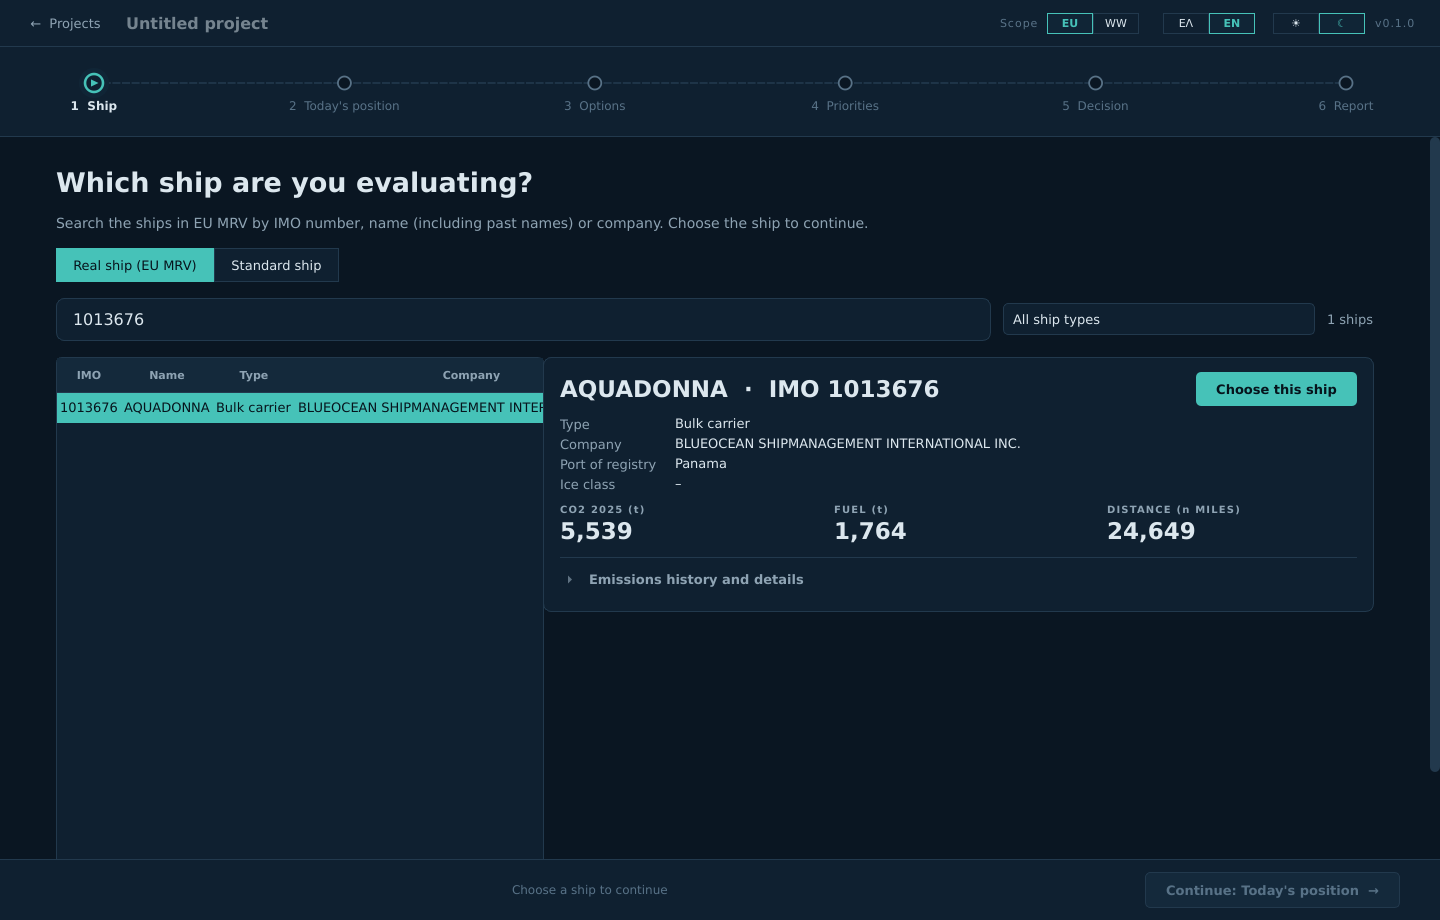
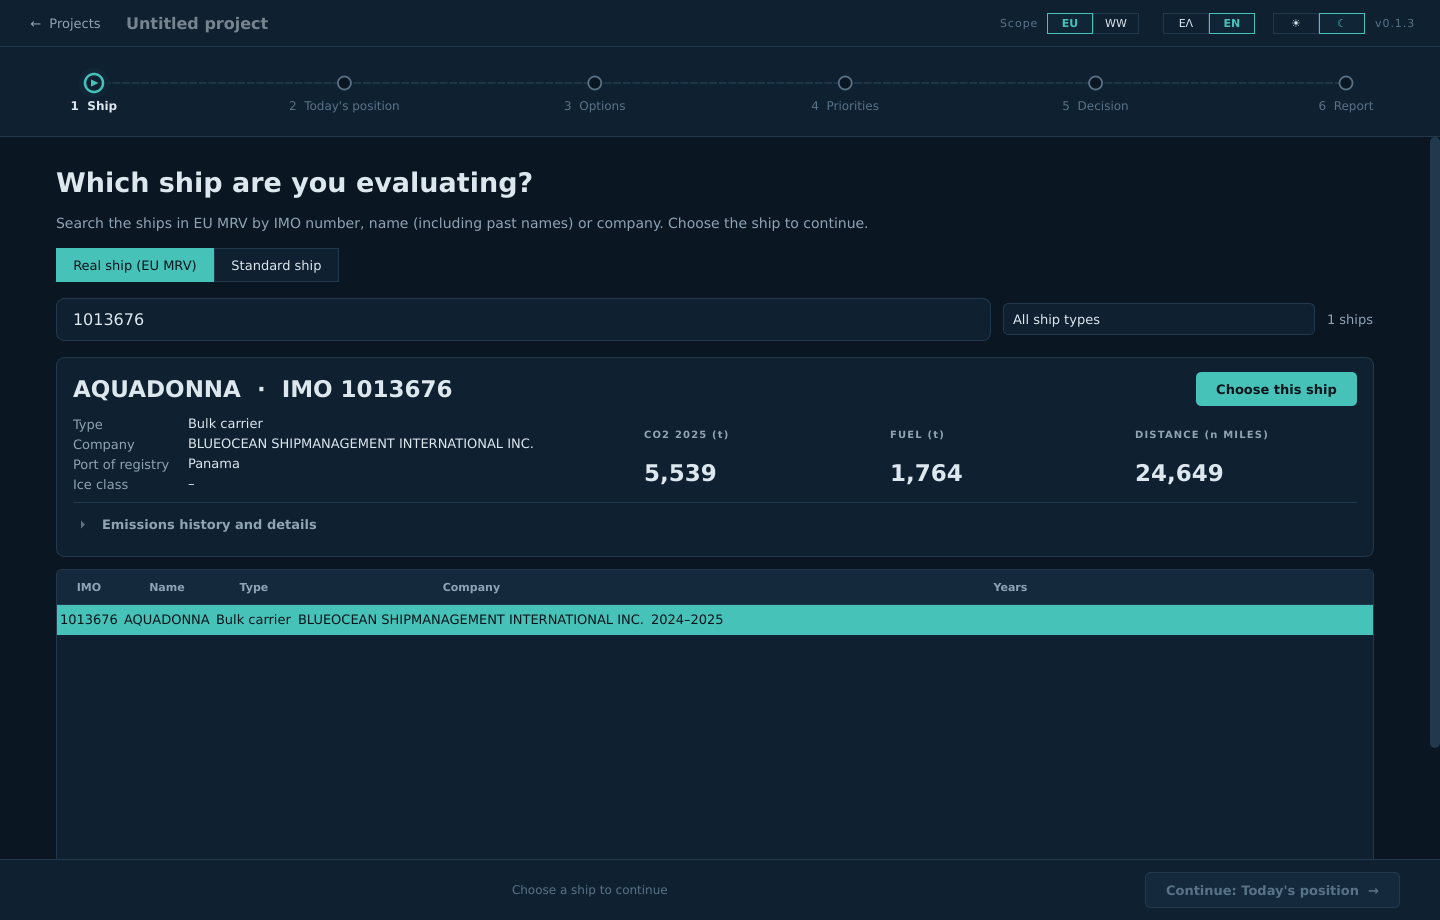
Step 1: ship details across the full width above the results table; step 4: reset buttons
- Step 1: identity and key figures side by side in one panel, history unfolds under it, the results
  table at full width below (no side-by-side splitter)
- Step 4: a circular-arrow reset in every weighting section (BWM: back to the starting answers;
  AHP: every pair equal), with tooltip in both languages; test added

Claude-Session: https://claude.ai/code/session_01GpgHe8uryxugAbk4MzQHde

diff --git a/navigator/ui/pages/ship.py b/navigator/ui/pages/ship.py
@@ -16,7 +16,6 @@ from PySide6.QtWidgets import (
     QMessageBox,
     QProgressDialog,
     QPushButton,
-    QSplitter,
     QTableView,
     QTableWidget,
     QTableWidgetItem,
@@ -155,9 +154,9 @@ class ShipDetail(QWidget):
         top.addWidget(self.use_btn, 0, Qt.AlignmentFlag.AlignTop)
         head.body.addLayout(top)
         self.info = QWidget()
-        info = QVBoxLayout(self.info)
+        info = QHBoxLayout(self.info)                # identity on the left, key figures on the right
         info.setContentsMargins(0, 0, 0, 0)
-        info.setSpacing(12)
+        info.setSpacing(36)
         head.body.addWidget(self.info)
         self.form = QFormLayout()
         self.form.setHorizontalSpacing(18)
@@ -169,7 +168,7 @@ class ShipDetail(QWidget):
             val.setTextInteractionFlags(Qt.TextInteractionFlag.TextSelectableByMouse)
             self.form.addRow(lab, val)
             self.fields[key] = (lab, val)
-        info.addLayout(self.form)
+        info.addLayout(self.form, 3)
         kg = QGridLayout()
         kg.setHorizontalSpacing(24)
         self.k_co2 = Kpi("ship.kpi.co2", year="")
@@ -178,7 +177,7 @@ class ShipDetail(QWidget):
         for i, k in enumerate((self.k_co2, self.k_fuel, self.k_dist)):
             kg.addWidget(k, 0, i)
             kg.setColumnStretch(i, 1)
-        info.addLayout(kg)
+        info.addLayout(kg, 4)
 
         self.details = Fold("ship.details")
         more = QFormLayout()
@@ -211,7 +210,7 @@ class ShipDetail(QWidget):
         hh.setStretchLastSection(True)
         self.table.setMinimumHeight(250)
         self.details.body_layout.addWidget(self.table)
-        info.addWidget(self.details)
+        head.body.addWidget(self.details)          # history unfolds under the whole panel
         v.addWidget(head)
         v.addStretch(1)
         self.state.ship_changed.connect(lambda _: self._update_button())
@@ -489,7 +488,18 @@ class StepShip(Page):
         self.empty.body.addWidget(TrLabel("ship.no_data.body", "Muted", wrap=True))
         mv.addWidget(self.empty)
 
-        self.split = QSplitter(Qt.Orientation.Horizontal)
+        # selected ship across the full width on top, the results table at full width below
+        self.split = QWidget()
+        sl = QVBoxLayout(self.split)
+        sl.setContentsMargins(0, 0, 0, 0)
+        sl.setSpacing(12)
+        right = QWidget()
+        rl = QVBoxLayout(right)
+        rl.setContentsMargins(0, 0, 0, 0)
+        rl.setSpacing(12)
+        self.detail = ShipDetail(state)
+        rl.addWidget(self.detail)
+        sl.addWidget(right)
         self.model = ResultsModel()
         self.view = QTableView()
         self.view.setModel(self.model)
@@ -500,19 +510,9 @@ class StepShip(Page):
         self.view.setShowGrid(False)
         self.view.horizontalHeader().setSectionResizeMode(QHeaderView.ResizeMode.ResizeToContents)
         self.view.horizontalHeader().setStretchLastSection(True)
-        self.view.setMinimumWidth(420)
+        self.view.setMinimumHeight(380)
         self.view.selectionModel().currentRowChanged.connect(self._row_changed)
-        self.split.addWidget(self.view)
-        right = QWidget()
-        rl = QVBoxLayout(right)
-        rl.setContentsMargins(0, 0, 0, 0)
-        rl.setSpacing(12)
-        self.detail = ShipDetail(state)
-        rl.addWidget(self.detail)
-        self.split.addWidget(right)
-        self.split.setStretchFactor(0, 2)
-        self.split.setStretchFactor(1, 3)
-        self.split.setMinimumHeight(560)
+        sl.addWidget(self.view, 1)
         mv.addWidget(self.split, 1)
         self.lay.addWidget(self.mrv_pane, 1)
         self.std_pane = StandardPane(state)

diff --git a/navigator/ui/pages/priorities.py b/navigator/ui/pages/priorities.py
@@ -17,6 +17,7 @@ from PySide6.QtWidgets import (
     QSlider,
     QTableWidget,
     QTableWidgetItem,
+    QToolButton,
     QVBoxLayout,
     QWidget,
 )
@@ -152,6 +153,14 @@ class BwmBlock(QWidget):
             self.q_bo[k].setText(tr("pri.q.bo", best=item_name(b), other=item_name(k)))
             self.q_ow[k].setText(tr("pri.q.ow", worst=item_name(w), other=item_name(k)))
 
+    def reset(self) -> None:
+        """Back to the starting point: first item most, last least important, every comparison at 2."""
+        self._fill_boxes(self.items[0], self.items[-1])
+        for sc in (*self.bo.values(), *self.ow.values()):
+            sc.set_value(2)
+        self._layout()
+        self.changed.emit()
+
     def result(self) -> W.WeightResult:
         b, w = self.best.currentData(), self.worst.currentData()
         bi, wi = self.items.index(b), self.items.index(w)
@@ -209,6 +218,12 @@ class AhpBlock(QWidget):
         g.setColumnStretch(1, 1)
         self.retranslate()
 
+    def reset(self) -> None:
+        """Every pair back to equal importance."""
+        for sc in self.pairs.values():
+            sc.set_value(0)
+        self.changed.emit()
+
     def result(self) -> W.WeightResult:
         j = {}
         for (i, k), s in self.pairs.items():
@@ -238,8 +253,16 @@ class Level(Panel):
     def __init__(self, key: str, items: list[str]):
         super().__init__(f"pri.level.{key}")
         self.key, self.items = key, items
+        top = QHBoxLayout()
         self.hint = label("", "Faint", wrap=True)
-        self.body.addWidget(self.hint)
+        top.addWidget(self.hint, 1)
+        self.reset_btn = QToolButton()
+        self.reset_btn.setObjectName("Reset")
+        self.reset_btn.setText("\u21BA")
+        self.reset_btn.setCursor(Qt.CursorShape.PointingHandCursor)
+        self.reset_btn.clicked.connect(self.reset)
+        top.addWidget(self.reset_btn, 0, Qt.AlignmentFlag.AlignTop)
+        self.body.addLayout(top)
         self.bwm, self.ahp = BwmBlock(items), AhpBlock(items)
         self.body.addWidget(self.bwm)
         self.body.addWidget(self.ahp)
@@ -249,6 +272,14 @@ class Level(Panel):
         self.ahp.changed.connect(self.changed)
         self.method = "bwm"
         self.set_method("bwm")
+        self.retranslate_reset()
+
+    def reset(self) -> None:
+        """Reset this section's answers (only the method shown)."""
+        (self.bwm if self.method == "bwm" else self.ahp).reset()
+
+    def retranslate_reset(self) -> None:
+        self.reset_btn.setToolTip(tr("pri.reset"))
 
     def set_method(self, method: str) -> None:
         self.method = method
@@ -403,6 +434,7 @@ class StepPriorities(Page):
         for lv in self.levels.values():
             lv.bwm.retranslate()
             lv.ahp.retranslate()
+            lv.retranslate_reset()
         self.update_hints()
         self.update_weights()
 

diff --git a/tests/test_ui_smoke.py b/tests/test_ui_smoke.py
@@ -1,4 +1,5 @@
 """Lobby → new project → choose ship → today's position → save → reopen."""
+import numpy as np
 import pytest
 
 pytest.importorskip("pytestqt")
@@ -228,3 +229,22 @@ def test_priorities_and_decision_with_smaa(win, qtbot):
     win.open_project(pid)
     pri = win.project_view.priorities_step
     assert pri.levels["families"].bwm.best.currentData() == "money"
+
+
+def test_priorities_reset_buttons(win):
+    win.new_project()
+    pv = win.project_view
+    pri = pv.priorities_step
+    fam = pri.levels["families"]
+    start = pri.global_weights().copy()
+    fam.bwm.best.setCurrentIndex(3)
+    fam.bwm.bo["money"].slider.setValue(8)
+    assert not np.allclose(pri.global_weights(), start)
+    fam.reset_btn.click()
+    assert fam.bwm.best.currentData() == "money" and fam.bwm.bo["climate"].value() == 2
+    assert pri.global_weights() == pytest.approx(start)
+    pri._method("ahp")
+    money = pri.levels["money"]
+    next(iter(money.ahp.pairs.values())).slider.setValue(-6)
+    money.reset_btn.click()
+    assert all(s.value() == 0 for s in money.ahp.pairs.values())

diff --git a/navigator/ui/theme.py b/navigator/ui/theme.py
@@ -160,6 +160,9 @@ QToolButton#Fold {{ border: none; border-top: 1px solid {p.border}; background: 
 QToolButton#Fold:hover, QToolButton#Fold:checked {{ color: {p.accent}; }}
 #Estimate {{ color: {p.warn}; font-size: 8.5pt; }}
 #Warn {{ color: {p.bad}; font-size: 9.5pt; }}
+QToolButton#Reset {{ font-size: 15pt; color: {p.muted}; background: transparent; border: 1px solid {p.border};
+    border-radius: 14px; min-width: 26px; min-height: 26px; padding: 0 0 2px 0; }}
+QToolButton#Reset:hover {{ color: {p.accent}; border-color: {p.accent}; }}
 #DetailTitle {{ font-size: 14pt; font-weight: 700; color: {p.text}; }}
 #FactValue {{ color: {p.text}; font-size: 9.5pt; }}
 #Warning {{ background: {p.panel_alt}; border-left: 3px solid {p.warn}; border-radius: 3px; padding: 8px 12px; }}

diff --git a/docs/FOLLOW-UPS.md b/docs/FOLLOW-UPS.md
@@ -17,10 +17,10 @@ reminds the author when an item becomes due. Tick items off with the commit that
 - [ ] Replace the equal NZF odds in SMAA (`markets.json` nzf_probability) with the vote's actual outcome (0010).
 
 ## Author's notes for the next session (25 Oct 2026), before Phase 5
-- [ ] Check on Windows that the step-3 shortlist checkboxes now work (fix in 00694a9; needs a new release).
-- [ ] Step 1 layout: the ship details box goes above the results table, laid out horizontally across the
+- [x] Step-3 shortlist checkboxes confirmed working on Windows by the author (26 Oct).
+- [x] Step 1 layout: the ship details box goes above the results table, laid out horizontally across the
       width; the table below at full width so every column shows.
-- [ ] Step 4: a reset button (circular arrow) in every weighting section. The author is not fully happy with
+- [x] Step 4: a reset button (circular arrow) in every weighting section. The author is not fully happy with
       the sliders or the step-4 layout but has no alternative yet: no change for now.
 - [ ] Charts: take inspiration from Financial Architect and from the figures in the IMO study (polar bars by
       ship type, small-multiple trend panels, scatter/box comparisons); comparative heatmaps over all possible
